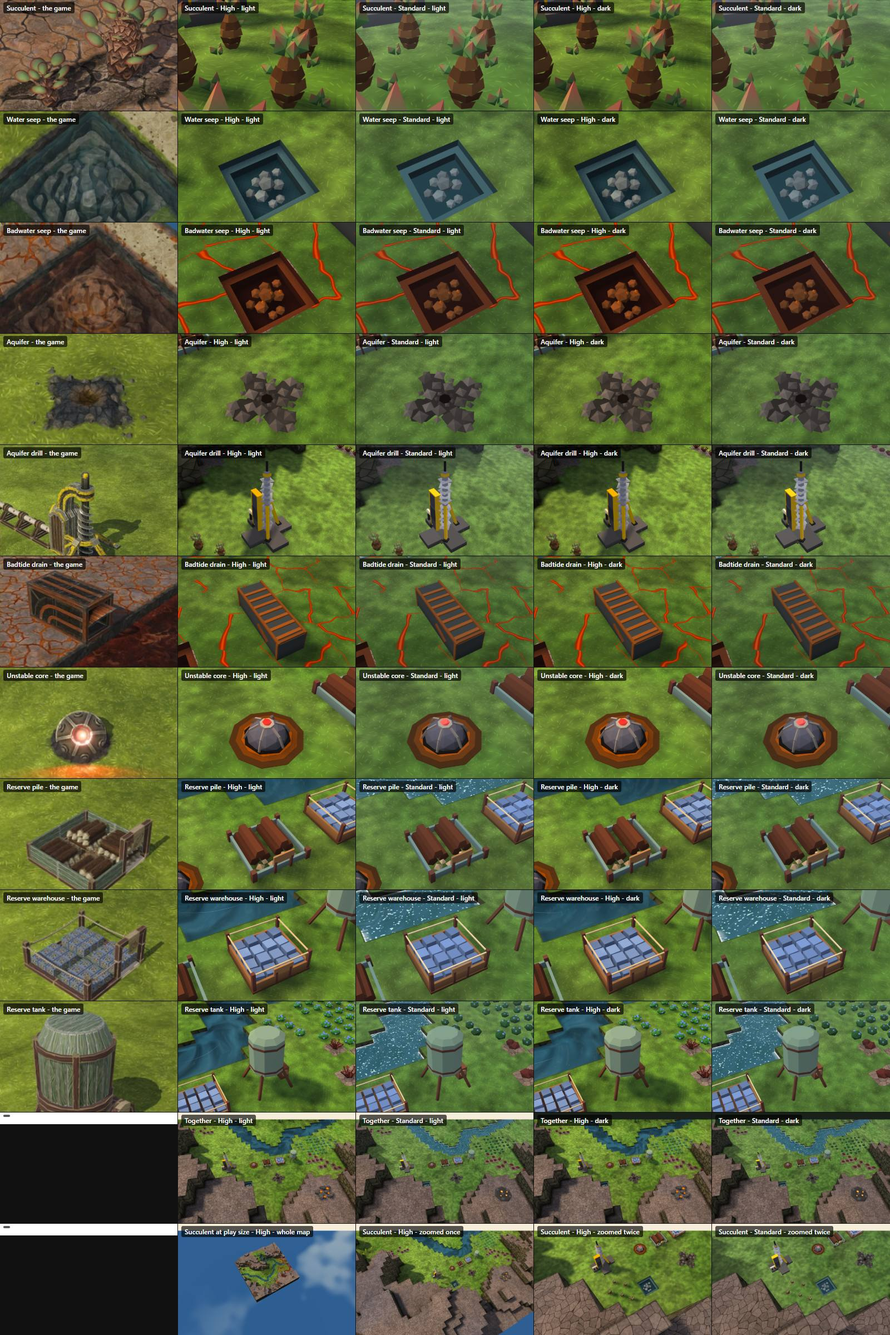
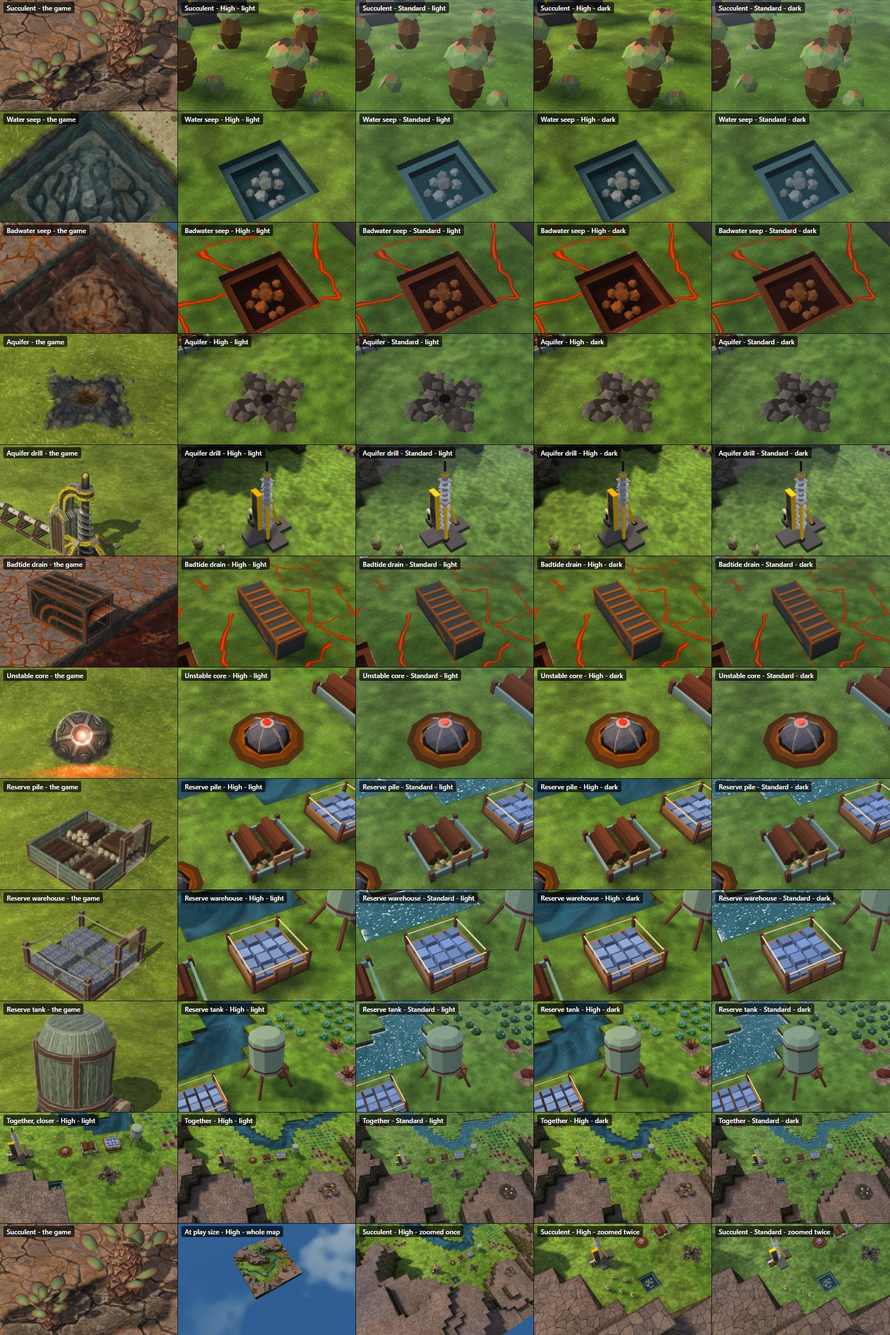
Succulent: sage lens pads on a softened scale trunk; tidy comments and sheet
Pads are 12-triangle lenses (round rim, two low apexes), six round the crown and two on a young plant, pale sage with a blush on the top rim vertex only; trunk rings softened; budget 144. Header and Model.add comments fixed. Sheet: no empty cells or cream strips.

diff --git a/src/render3d/entities3d.ts b/src/render3d/entities3d.ts
@@ -5,8 +5,8 @@
 // so a grove is not one flat colour.
 //
 // - Trees by species: pine (tiers of dark cones), birch (a white trunk with dark marks and a light
-//   crown), oak (a thick trunk and a broad crown), succulent (a fat brown pinecone-like trunk with small green pads on short stalks, and a young
-//   plant beside it). Dead
+//   crown), oak (a thick trunk and a broad crown), succulent (a fat brown pinecone-like trunk with pale sage lens-shaped pads fanning out round its
+//   crown, and a young plant beside it). Dead
 //   trees are bare: a pale grey-brown trunk and bare branches at the tree's true size, far lighter
 //   than the dark living crowns.
 // - Berry bushes: dark green, dotted with blue flowers.
@@ -77,7 +77,8 @@ class Model {
   /** The view the parts added now belong to (LOD_ALL, LOD_NEAR or LOD_FAR). */
   level = LOD_ALL;
 
-  /** Add a three.js geometry, transformed, in one colour (flat shaded). */
+  /** Add a three.js geometry, transformed, in one colour or with a colour for each vertex (a function of
+   *  the vertex's place in the geometry before it is moved; flat shaded). */
   add(g: BufferGeometry, color: Rgb | ((x: number, y: number, z: number) => Rgb), t: { x?: number; y?: number; z?: number; rx?: number; ry?: number; rz?: number; sx?: number; sy?: number; sz?: number; lift?: number } = {}): this {
     // a colour per vertex: `color` given the vertex's place in the geometry before it is moved
     let per: Rgb[] | null = null;
@@ -417,45 +418,55 @@ function beam(m: Model, a: readonly number[], b: readonly number[], r: number, c
   m.add(g, color, { x: c.x, y: c.y, z: c.z });
 }
 
+/** A pad: a lens of 12 triangles, a round rim of six vertices in the xz plane (radius 1) with an apex over and
+ *  under its middle (y = ±1); scale it to about 0.15 × 0.04 × 0.15. */
+function lens(): BufferGeometry {
+  const rim = (k: number): number[] => [Math.cos((k * Math.PI) / 3), 0, Math.sin((k * Math.PI) / 3)];
+  const out: number[] = [];
+  for (let k = 0; k < 6; k++) {
+    out.push(0, 1, 0, ...rim(k + 1), ...rim(k));
+    out.push(0, -1, 0, ...rim(k), ...rim(k + 1));
+  }
+  const g = new BufferGeometry();
+  g.setAttribute("position", new Float32BufferAttribute(out, 3));
+  return g;
+}
+
+const SAGE: Rgb = [0.55, 0.7, 0.45];
+const BLUSH: Rgb = [0.86, 0.42, 0.38];
+
 /** The desert plant (the game's succulent): a tall egg of a trunk, widest a third of the way up, tapering to
- *  the crown, in rings of alternating browns like scales; eight plump jade-green ovals fanning up and out
- *  of its crown and sides, blushing pink-red at their tips; and a young plant beside it, three of the same
- *  pads straight from the ground. Dead: a grey-tan trunk and a few limp tan pads. At most 150 triangles. */
+ *  the crown, in four rings of two close browns like scales; six pale sage lens-shaped pads fanning out
+ *  round its crown, each blushing pink-red at its top rim vertex only; and a young plant beside it, two
+ *  of the same pads. Dead: a grey-tan trunk and three limp tan pads. At most 144 triangles. */
 function succulent(dead: boolean): Model {
-  const mid: Rgb = dead ? [0.55, 0.47, 0.36] : [0.5, 0.34, 0.2];
-  const dark: Rgb = dead ? [0.47, 0.4, 0.3] : [0.36, 0.23, 0.14];
+  const mid: Rgb = dead ? [0.55, 0.47, 0.36] : [0.5, 0.36, 0.22];
+  const dark: Rgb = dead ? [0.5, 0.43, 0.33] : [0.43, 0.3, 0.18];
   const cx = dead ? 0 : 0.1;
   const m = new Model();
-  // (the trunk: five rings, each a frustum, bottom radius, top radius)
-  const rings: [number, number][] = [[0.14, 0.2], [0.2, 0.25], [0.25, 0.22], [0.22, 0.16], [0.16, 0.09]];
-  rings.forEach(([r0, r1], k) => m.add(cyl(r0, r1, 0.15, 6), k % 2 ? dark : mid, { x: cx, y: 0.075 + 0.15 * k, ry: 0.3 * k }));
-  // (a pad: a squashed ellipsoid standing from its base at (x, y, z), `tilt` from upright toward `turn`;
-  //  green, darker at the base, blushing at the tip)
-  const green: Rgb = dead ? [0.62, 0.54, 0.4] : [0.4, 0.63, 0.34];
-  const blush: Rgb = dead ? [0.55, 0.45, 0.34] : [0.86, 0.42, 0.38];
-  const tint = (x: number, y: number): Rgb => (y > 0.9 ? blush : y < -0.9 ? shade(green, 0.7) : Math.abs(x) > 0.5 ? shade(green, 1.08) : green);
-  const pad = (x: number, y: number, z: number, turn: number, tilt: number, size: number) => {
-    const half = 0.17 * size;
-    m.add(oct(1), (px, py) => tint(px, py), { sx: 0.12 * size, sy: half, sz: 0.08 * size, rz: -tilt, ry: turn, x: x + Math.sin(tilt) * Math.cos(turn) * half, y: y + Math.cos(tilt) * half, z: z - Math.sin(tilt) * Math.sin(turn) * half });
-  };
+  const rings: [number, number][] = [[0.13, 0.22], [0.22, 0.25], [0.25, 0.2], [0.2, 0.1]];
+  rings.forEach(([r0, r1], k) => m.add(cyl(r0, r1, 0.19, 6), k % 2 ? dark : mid, { x: cx, y: 0.095 + 0.19 * k, ry: 0.3 * k }));
+  const green: Rgb = dead ? [0.62, 0.54, 0.4] : SAGE;
+  // (a pad standing at (x, y, z) with its face tilted `tilt` from upright, outward along `turn`; its top rim vertex blushes)
+  const pad = (x: number, y: number, z: number, turn: number, tilt: number, size: number) =>
+    m.add(lens(), (px, py, pz) => (!dead && px < -0.9 ? BLUSH : py !== 0 ? shade(green, 1.06) : pz > 0.5 ? shade(green, 0.94) : green), { sx: 0.15 * size, sy: 0.04 * size, sz: 0.15 * size, rz: -tilt, ry: turn, x, y, z });
   if (dead) {
-    for (const [a, t] of [[0.4, 1.3], [2.6, 1.2], [4.6, 1.35]]) pad(cx + Math.cos(a) * 0.12, 0.7, -Math.sin(a) * 0.12, a, t, 0.9);
+    for (const [a, t] of [[0.4, 1.45], [2.6, 1.4], [4.6, 1.5]]) pad(cx + Math.cos(a) * 0.2, 0.72, -Math.sin(a) * 0.2, a, t, 0.9);
     return m;
   }
-  for (let k = 0; k < 7; k++) {
-    const a = k * 0.9 + 0.2;
-    pad(cx + Math.cos(a) * 0.08, 0.75, -Math.sin(a) * 0.08, a, 0.35 + 0.12 * (k % 3), 1);
+  for (let k = 0; k < 6; k++) {
+    const a = k * 1.05 + 0.2;
+    pad(cx + Math.cos(a) * 0.2, 0.8, -Math.sin(a) * 0.2, a, 0.9 + 0.1 * (k % 4), 1);
   }
-  pad(cx + 0.16, 0.42, 0, 0, 1.1, 0.7);
-  // the young plant: three pads straight from the ground
-  for (const [a, t] of [[0.5, 0.45], [2.6, 0.55], [4.7, 0.4]]) pad(-0.33 + Math.cos(a) * 0.03, 0, 0.1 - Math.sin(a) * 0.03, a, t, 0.7);
+  // the young plant: two pads straight from the ground
+  for (const [a, t] of [[0.5, 0.9], [3.1, 1.0]]) pad(-0.33 + Math.cos(a) * 0.08, 0.14, 0.1 - Math.sin(a) * 0.08, a, t, 0.8);
   return m;
 }
 
 /** The light look's succulent: a trunk and two pads. */
 function liteSucculent(): Model {
-  const m = new Model().add(cone(0.22, 0.7, 4), [0.5, 0.34, 0.2], { y: 0.35 });
-  for (const a of [0.5, 3.6]) m.add(cone(0.12, 0.05, 4), [0.42, 0.64, 0.34], { x: Math.cos(a) * 0.25, y: 0.62, z: -Math.sin(a) * 0.25, rz: -0.9 * Math.cos(a), rx: 0.9 * Math.sin(a) });
+  const m = new Model().add(cone(0.22, 0.7, 4), [0.5, 0.36, 0.22], { y: 0.35 });
+  for (const a of [0.5, 3.6]) m.add(lens(), SAGE, { sx: 0.15, sy: 0.04, sz: 0.15, rz: -1, ry: a, x: Math.cos(a) * 0.2, y: 0.62, z: -Math.sin(a) * 0.2 });
   return m;
 }
 

diff --git a/tests/unit/objectModels1x.test.ts b/tests/unit/objectModels1x.test.ts
@@ -9,8 +9,8 @@ import { buildEntities, mineCutout, modelKeyOf, modelOf, modelTriangles } from "
 import { entityView } from "../../src/render3d/model";
 
 const BUDGET: Record<string, number> = {
-  Succulent: 150,
-  "Succulent.dead": 100,
+  Succulent: 144,
+  "Succulent.dead": 90,
   WaterSeep: 400,
   BadwaterSeep: 400,
   Aquifer: 400,
